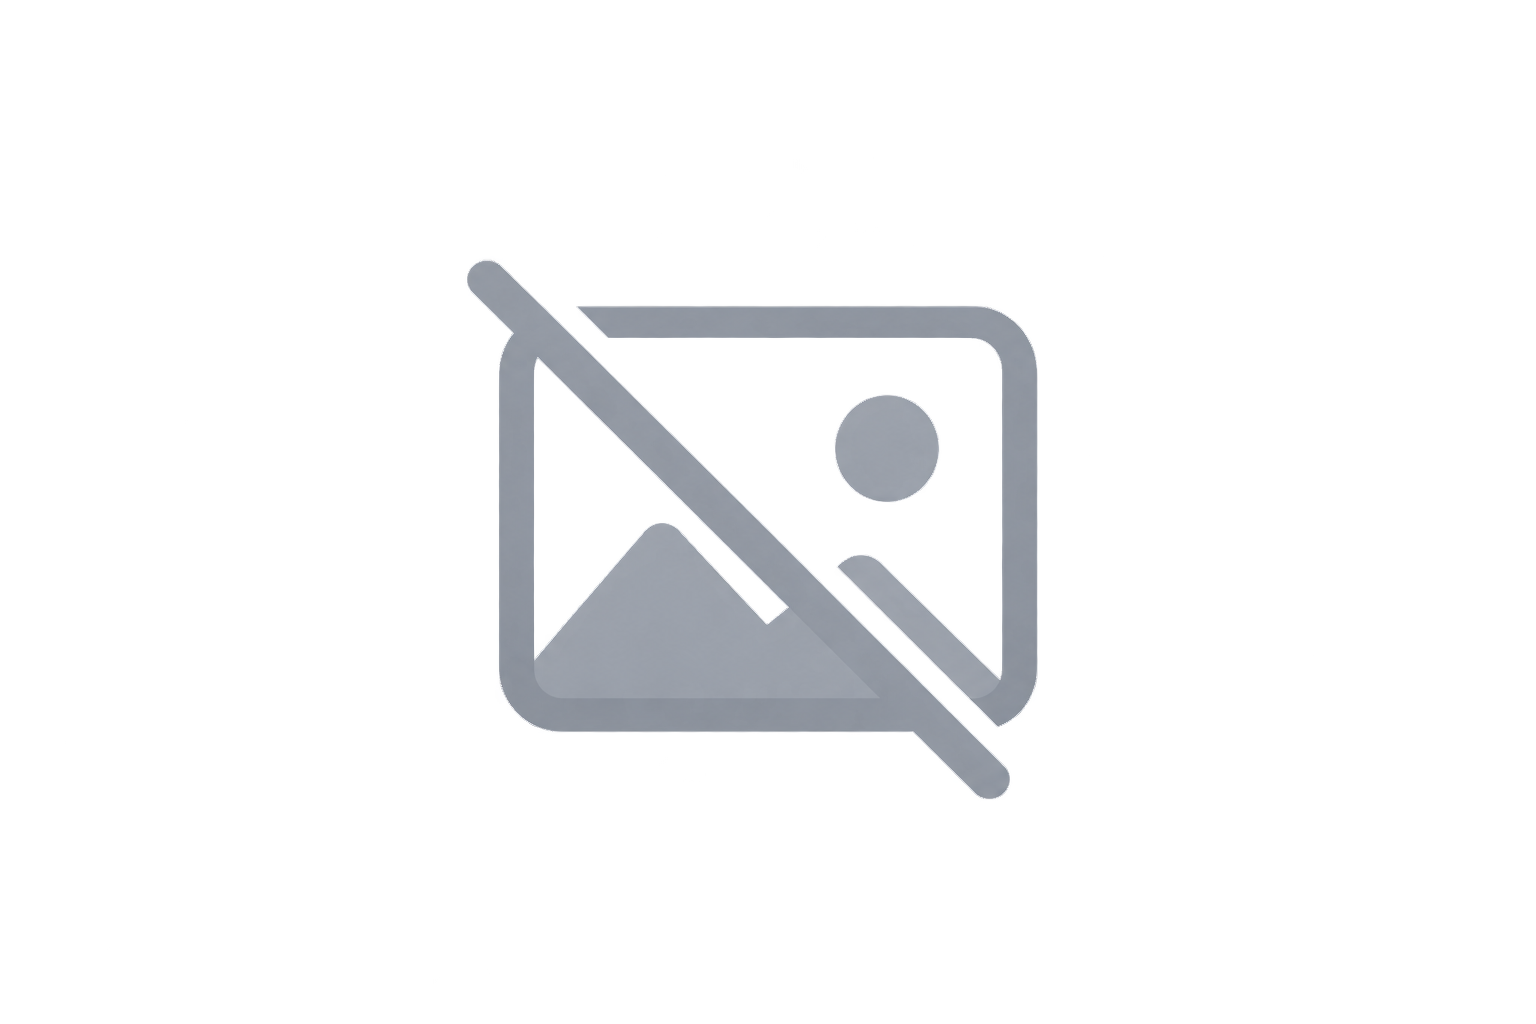
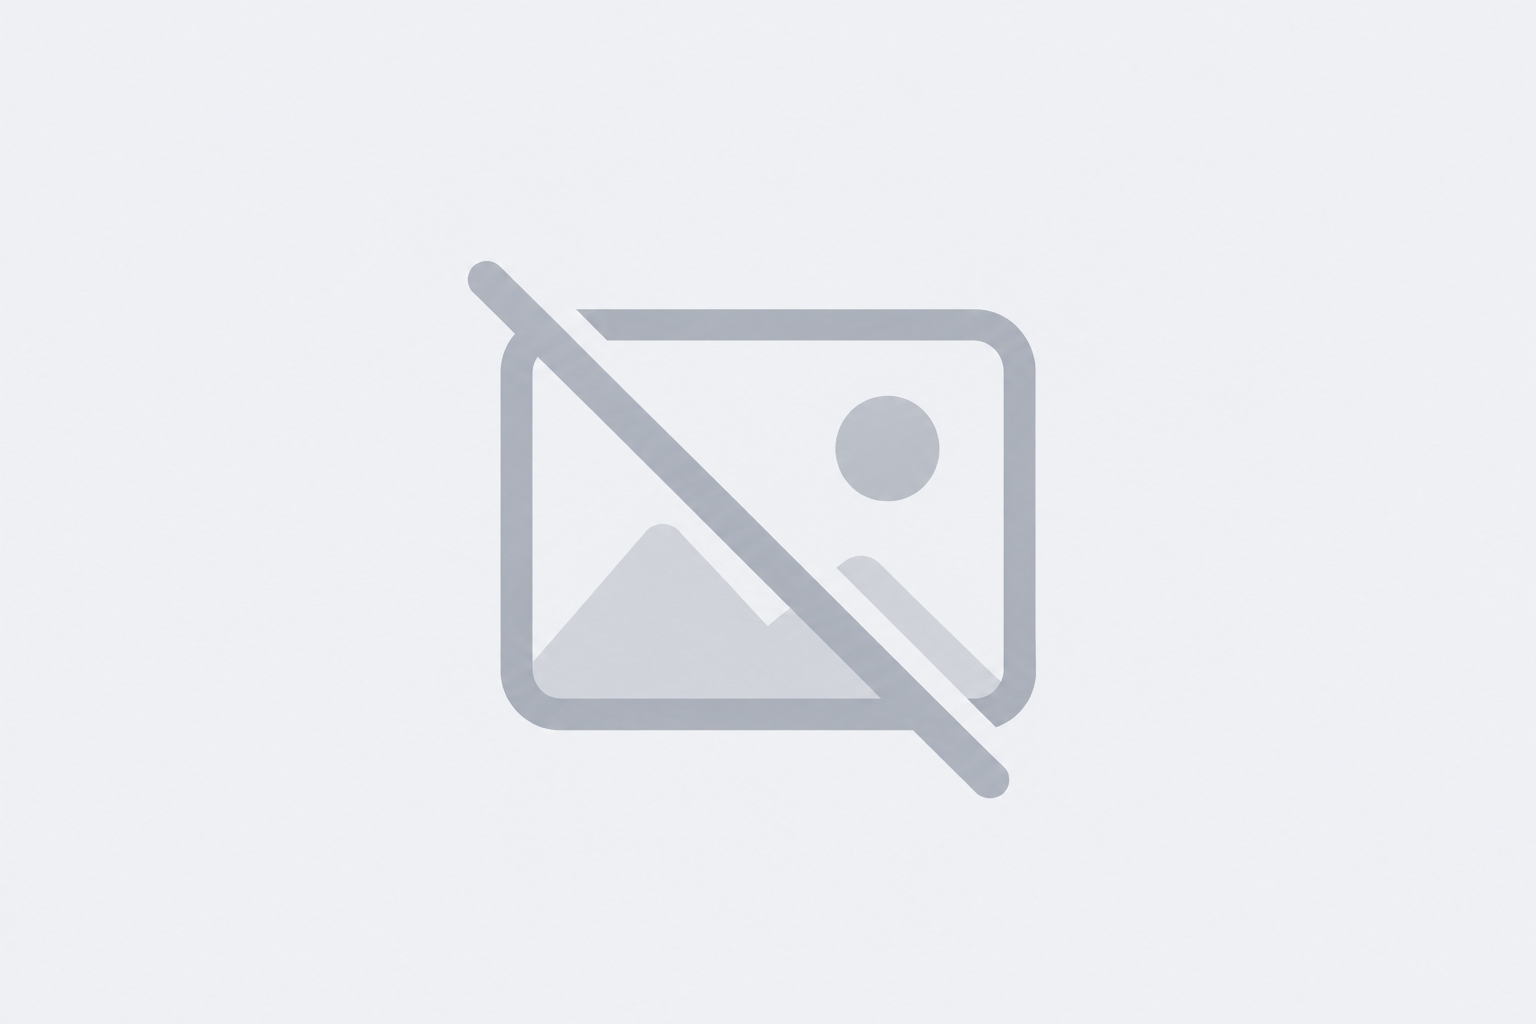
feat: getProduct api 연동

Changed region(s): [[0.2812, 0.25, 0.6875, 0.7812]]

diff --git a/src/components/ProductCard.jsx b/src/components/ProductCard.jsx
@@ -1,18 +1,28 @@
-export default function ProductCard({ testData }) {
+export default function ProductCard({ products }) {
   return (
     <article>
-      {testData.images[0] ? (
-        <img src={testData.images[0]} alt={testData.name} />
+      {products.images[0] ? (
+        // 데이터에 이미지가 있을 때
+        // 데이터에 이미지가 url 링크로 있는데 해당 링크에서 이미지를 정상적으로 불러오지 못함
+        <img
+          className="no-Image"
+          src={products.images[0]}
+          alt={products.name}
+          onError={(e) => {
+            e.currentTarget.src = "/images/no_image.png";
+          }}
+        />
       ) : (
+        // 데이터에 이미지가 아에 존재하지 않을 때
         <img
           className="no-Image"
           src="/images/no_image.png"
           alt="이미지 없음"
         />
       )}
-      <p>{testData.name}</p>
-      <p>{testData.price}원</p>
-      <p>♡{testData.favoriteCount}</p>
+      <p>{products.name}</p>
+      <p>{products.price}원</p>
+      <p>♡{products.favoriteCount}</p>
     </article>
   );
 }

diff --git a/src/components/BestProducts.jsx b/src/components/BestProducts.jsx
@@ -1,17 +1,31 @@
-import testData from "./testData";
+// import testData from "./testData";
 import ProductCard from "./ProductCard";
+import { useEffect, useState } from "react";
+import getProduct from "../api/productApi";
 
 export default function BestProducts() {
-  const sortedBest = [...testData]
+  const [products, setProducts] = useState([]);
+
+  useEffect(() => {
+    // useEffect의 콜백함수는 프로미스를 반환하면 안됨
+    // 그래서 awiat이나 .then으로 비동기 작업을 완료 한 뒤에 결과값을 받아서 사용
+    getProduct().then((data) => {
+      setProducts(data.list);
+    });
+  }, []);
+
+  const sortedBest = [...products]
     .sort((a, b) => b.favoriteCount - a.favoriteCount)
     .slice(0, 4);
 
   return (
     <section>
       <h3>베스트 상품</h3>
-      {sortedBest.map((item) => (
-        <ProductCard key={item.id} testData={item} />
-      ))}
+      <div className="best-product">
+        {sortedBest.map((item) => (
+          <ProductCard key={item.id} products={item} />
+        ))}
+      </div>
     </section>
   );
 }

diff --git a/src/api/baseURL.js b/src/api/baseURL.js
@@ -1,1 +1,5 @@
-export const BASE_URL = "https://panda-market-api.vercel.app";
+import axios from "axios";
+
+export const apiUrl = axios.create({
+  baseURL: "https://panda-market-api.vercel.app",
+});

diff --git a/src/api/productApi.js b/src/api/productApi.js
@@ -1,0 +1,6 @@
+import { apiUrl } from "./baseURL";
+
+export default async function getProduct() {
+  const response = await apiUrl.get("/products");
+  return response.data;
+}

diff --git a/src/index.css b/src/index.css
@@ -45,3 +45,8 @@ button {
   aspect-ratio: 1 / 1;
   object-fit: contain;
 }
+
+.best-product {
+  display: flex;
+  gap: 1rem;
+}
